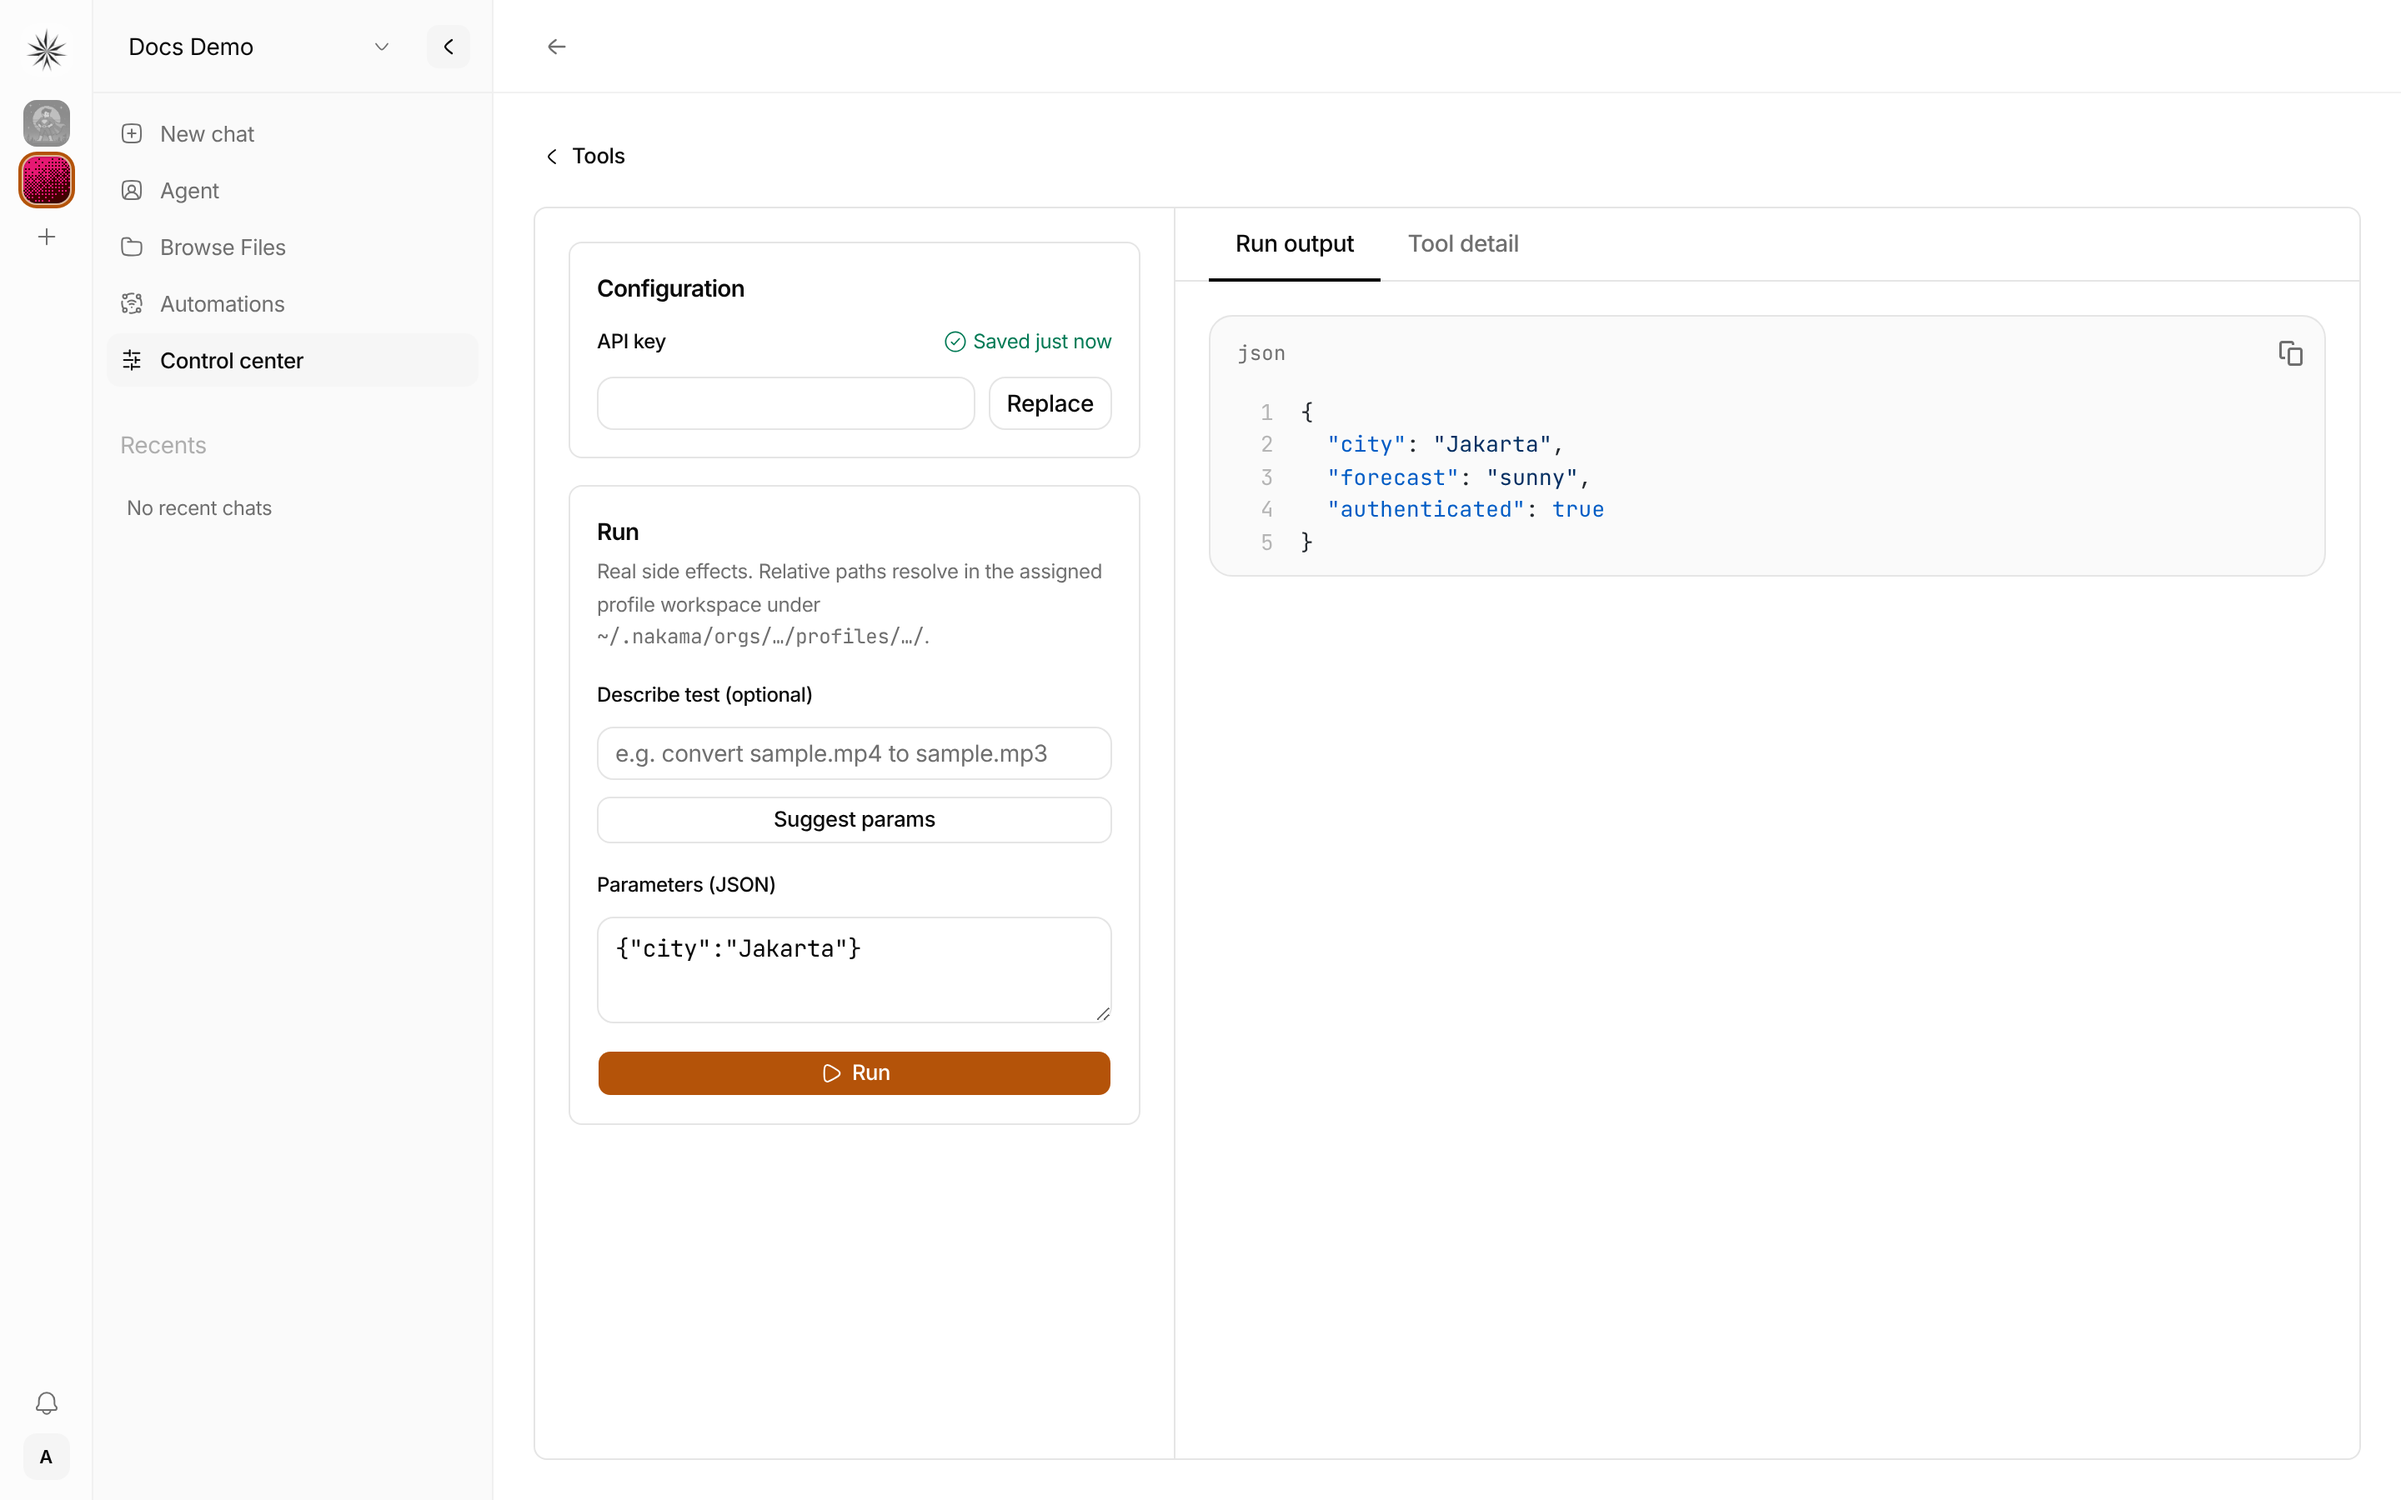
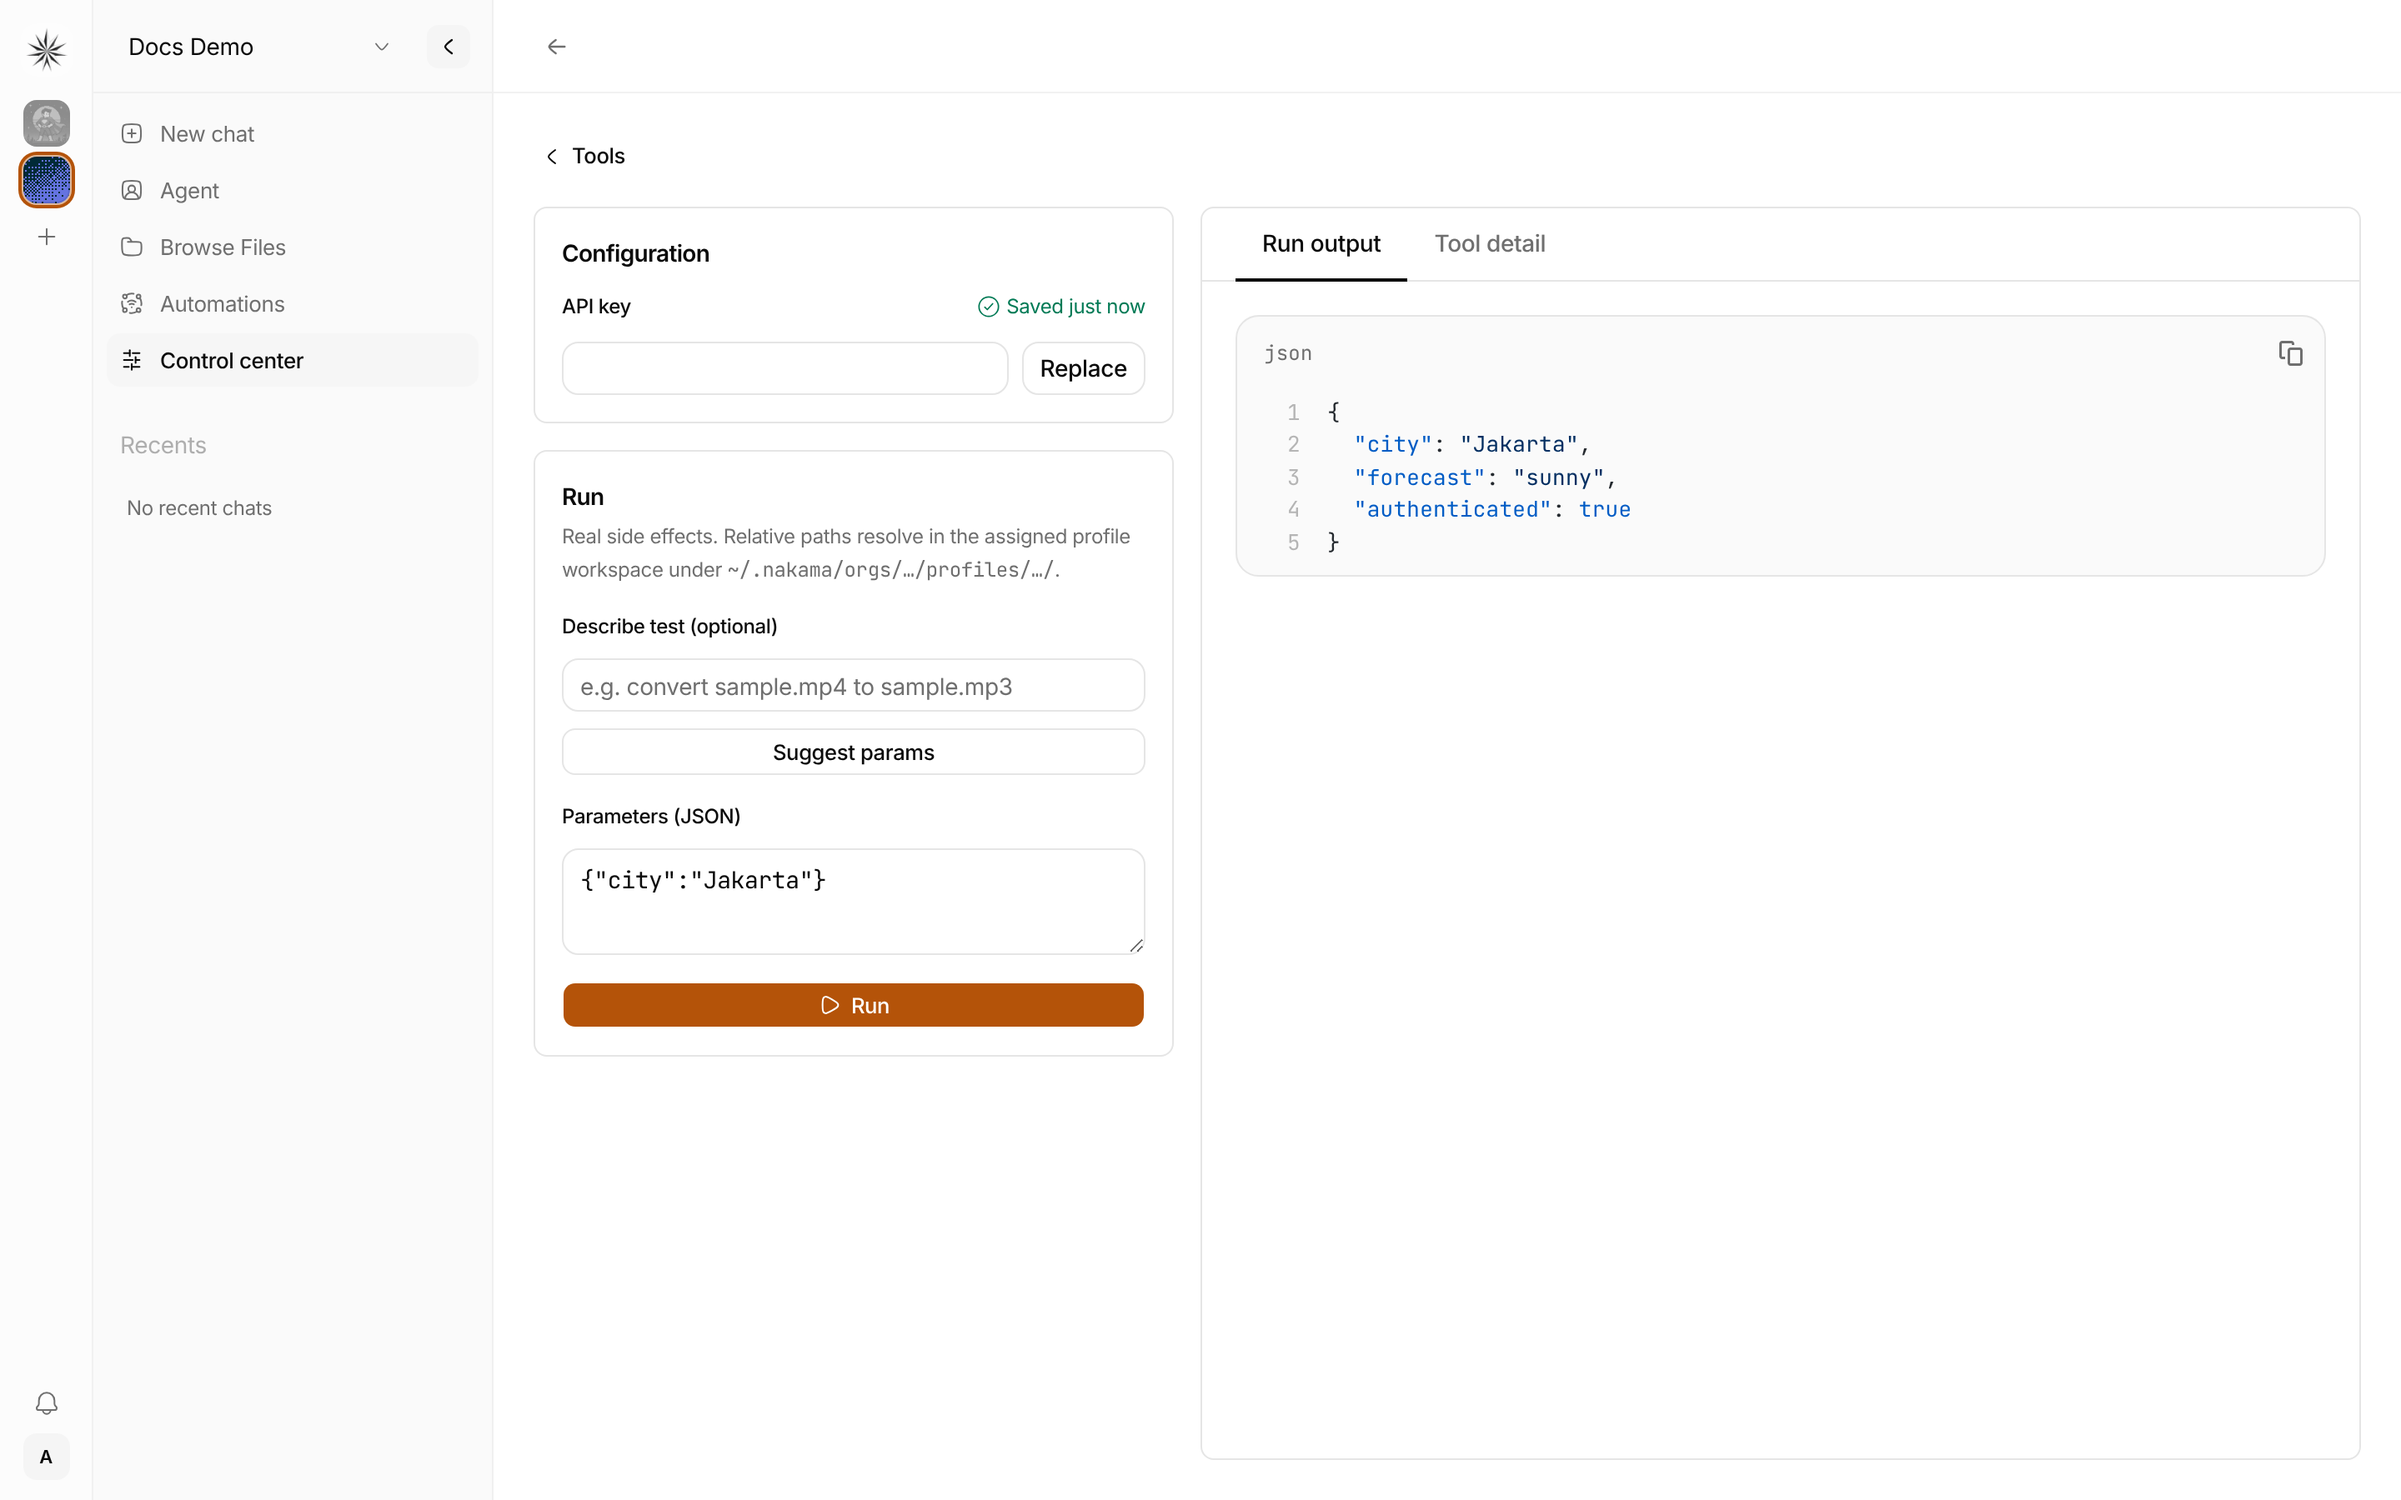
Lay out tool playground as three flat cards
Configuration, Run and the output/detail tabs are now sibling cards
instead of panels nested inside one outer card.

Claude-Session: https://claude.ai/code/session_016ihaf3wZVPmUQWsZB2PcG8

diff --git a/apps/web/src/pages/ToolPlaygroundPage.tsx b/apps/web/src/pages/ToolPlaygroundPage.tsx
@@ -101,17 +101,20 @@ function ToolPlaygroundPageContent({
     <div className="flex min-h-0 flex-1 flex-col space-y-4 p-6">
       <BackLink />
 
-      <section
-        className={cn(sectionClass, "flex min-h-0 flex-1 overflow-hidden")}
-      >
-        <div className="flex min-h-0 flex-1 flex-col lg:flex-row">
+      <section className="flex min-h-0 flex-1 overflow-hidden">
+        <div className="flex min-h-0 flex-1 flex-col gap-4 lg:flex-row">
           {isCustomTool ? (
-            <aside className="order-2 shrink-0 overflow-y-auto border-border border-t lg:order-1 lg:w-80 lg:border-t-0 lg:border-r xl:w-96">
+            <aside className="order-2 shrink-0 overflow-y-auto lg:order-1 lg:w-80 xl:w-96">
               <ToolPlaygroundRunForm run={run} tool={tool} />
             </aside>
           ) : null}
 
-          <main className="order-1 flex min-h-0 min-w-0 flex-1 flex-col overflow-hidden lg:order-2">
+          <main
+            className={cn(
+              sectionClass,
+              "order-1 flex min-h-0 min-w-0 flex-1 flex-col overflow-hidden lg:order-2"
+            )}
+          >
             {isCustomTool ? (
               <div className="flex min-h-0 flex-1 flex-col overflow-hidden">
                 <div

diff --git a/apps/web/src/components/tools/ToolPlaygroundPanel.tsx b/apps/web/src/components/tools/ToolPlaygroundPanel.tsx
@@ -21,7 +21,7 @@ export function ToolPlaygroundRunForm({
   run: ToolPlaygroundRunControls;
 }) {
   return (
-    <div className="space-y-4 p-4 sm:p-5">
+    <div className="space-y-4">
       <ToolApiKeyForm toolId={tool.id} />
       <div className="space-y-4 rounded-md border border-border bg-card p-4">
         <div>
